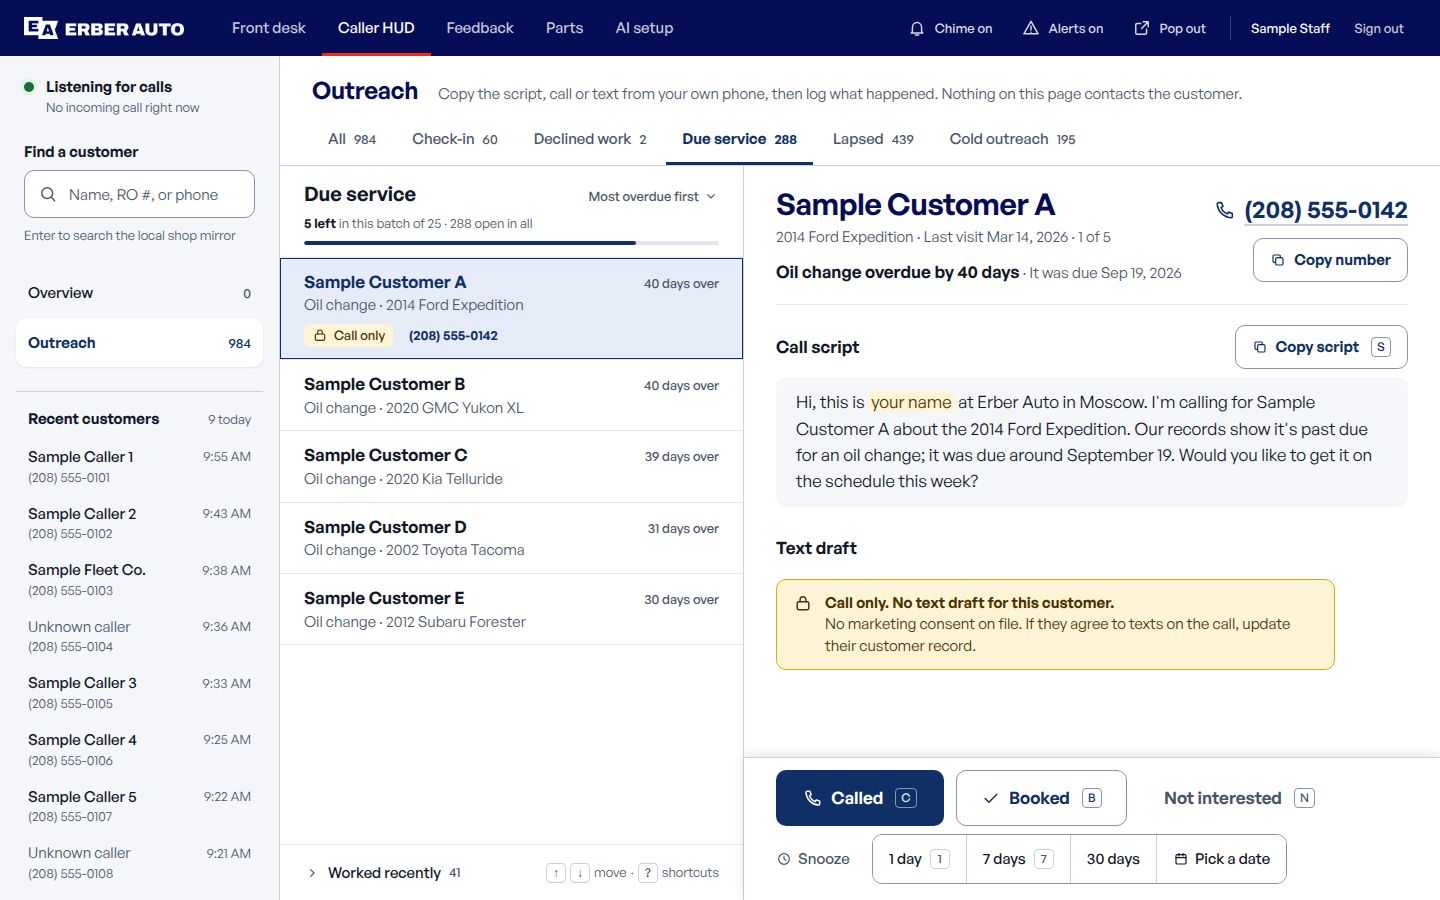
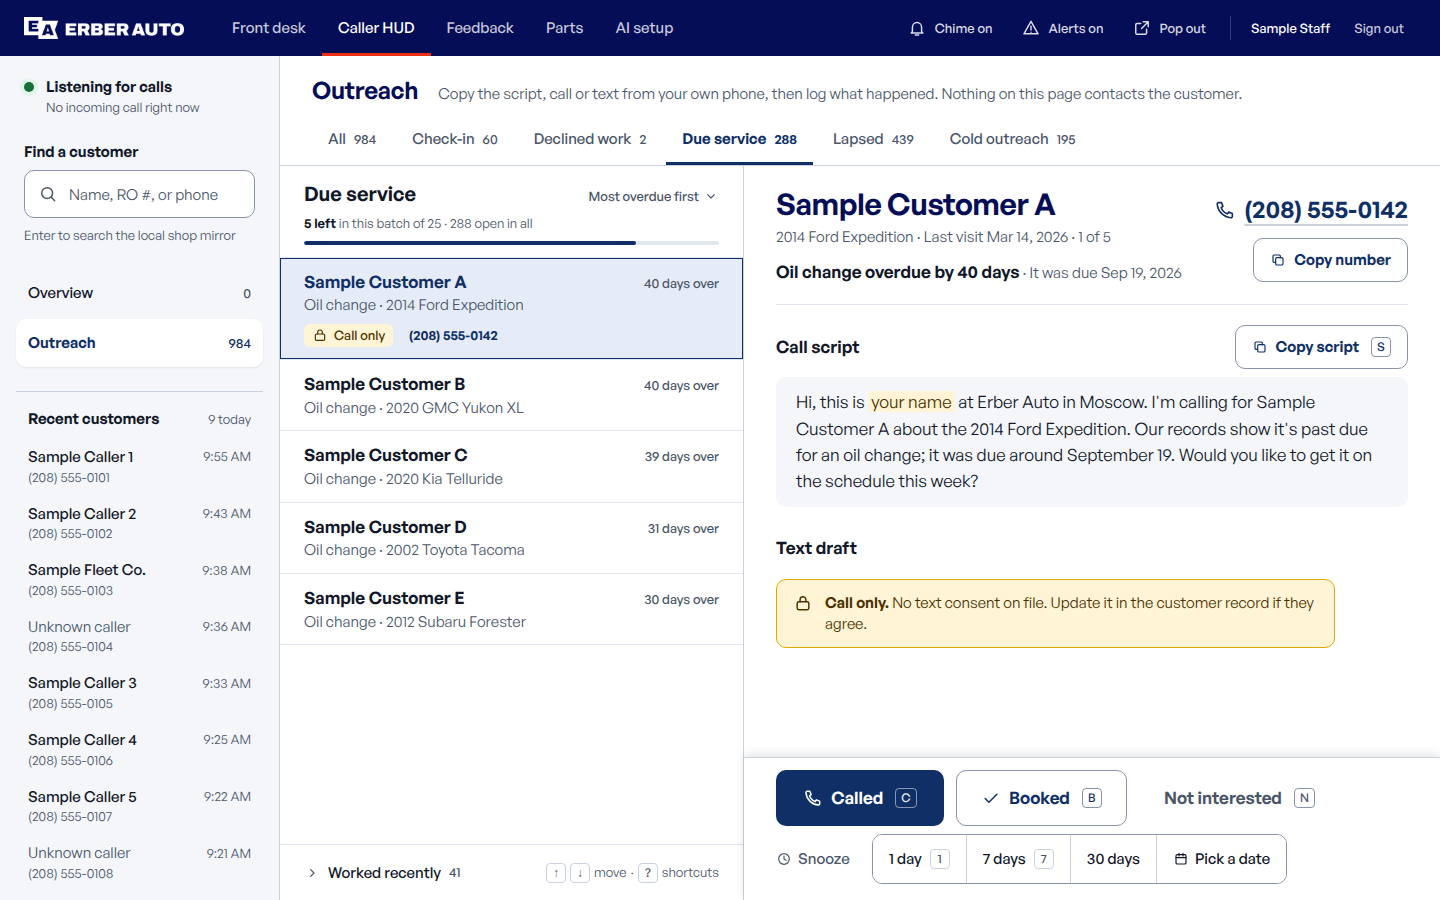
Apply owner decisions: dismiss on every outcome, read-only consent notice copy

Changed region(s): [[0.5312, 0.6533, 0.9375, 0.7467]]

diff --git a/outreach-review/mockup.html b/outreach-review/mockup.html
@@ -130,40 +130,39 @@
         </header>
 
         <ol class="rows" role="listbox" aria-label="Customers to call">
-          <li class="row" data-id="a" role="option" tabindex="0" data-outcome="Booked">
+          <li class="row" data-id="a" role="option" tabindex="0">
             <div class="row-top"><span class="row-name">Sample Customer A</span><span class="row-when">40 days over</span></div>
             <p class="row-reason">Oil change · 2014 Ford Expedition</p>
             <p class="row-flags"><span class="flag"><svg class="ico ico-sm"><use href="#i-lock"/></svg>Call only</span><span class="row-phone">(208) 555-0142</span></p>
-            <p class="row-logged"></p>
           </li>
-          <li class="row" data-id="b" role="option" tabindex="-1" data-outcome="Called">
+          <li class="row" data-id="b" role="option" tabindex="-1">
             <div class="row-top"><span class="row-name">Sample Customer B</span><span class="row-when">40 days over</span></div>
             <p class="row-reason">Oil change · 2020 GMC Yukon XL</p>
             <p class="row-flags"><span class="flag flag-ok"><svg class="ico ico-sm"><use href="#i-message"/></svg>Text OK</span><span class="row-phone">(208) 555-0177</span></p>
-            <p class="row-logged"></p>
           </li>
-          <li class="row" data-id="c" role="option" tabindex="-1" data-outcome="Snoozed 7 days">
+          <li class="row" data-id="c" role="option" tabindex="-1">
             <div class="row-top"><span class="row-name">Sample Customer C</span><span class="row-when">39 days over</span></div>
             <p class="row-reason">Oil change · 2020 Kia Telluride</p>
             <p class="row-flags"><span class="flag flag-ok"><svg class="ico ico-sm"><use href="#i-message"/></svg>Text OK</span><span class="row-phone">(208) 555-0119</span></p>
-            <p class="row-logged"></p>
           </li>
-          <li class="row" data-id="d" role="option" tabindex="-1" data-outcome="Not interested">
+          <li class="row" data-id="d" role="option" tabindex="-1">
             <div class="row-top"><span class="row-name">Sample Customer D</span><span class="row-when">31 days over</span></div>
             <p class="row-reason">Oil change · 2002 Toyota Tacoma</p>
             <p class="row-flags"><span class="flag"><svg class="ico ico-sm"><use href="#i-lock"/></svg>Call only</span><span class="row-phone">(208) 555-0163</span></p>
-            <p class="row-logged"></p>
           </li>
-          <li class="row" data-id="e" role="option" tabindex="-1" data-outcome="Called">
+          <li class="row" data-id="e" role="option" tabindex="-1">
             <div class="row-top"><span class="row-name">Sample Customer E</span><span class="row-when">30 days over</span></div>
             <p class="row-reason">Oil change · 2012 Subaru Forester</p>
             <p class="row-flags"><span class="flag flag-ok"><svg class="ico ico-sm"><use href="#i-message"/></svg>Text OK</span><span class="row-phone">(208) 555-0128</span></p>
-            <p class="row-logged"></p>
           </li>
         </ol>
+        <div class="list-clear" data-only="done">
+          <p class="list-clear-title">No one left in this batch</p>
+          <p>Worked customers are under Worked recently.</p>
+        </div>
 
         <footer class="list-foot">
-          <button class="disclose"><svg class="ico ico-sm"><use href="#i-chevron"/></svg>Worked recently <span>41</span></button>
+          <button class="disclose"><svg class="ico ico-sm"><use href="#i-chevron"/></svg>Worked recently <span data-only="withheld empty">41</span><span data-only="text">42</span><span data-only="done">66</span></button>
           <p class="keys"><kbd>↑</kbd><kbd>↓</kbd> move <span aria-hidden="true">·</span> <kbd>?</kbd> shortcuts</p>
         </footer>
       </section>
@@ -196,8 +195,7 @@
             <div class="consent" role="note">
               <svg class="ico"><use href="#i-lock"/></svg>
               <div>
-                <p class="consent-title">Call only. No text draft for this customer.</p>
-                <p>No marketing consent on file. If they agree to texts on the call, update their customer record.</p>
+                <p><strong class="consent-title">Call only.</strong> No text consent on file. Update it in the customer record if they agree.</p>
               </div>
             </div>
           </section>
@@ -250,7 +248,7 @@
               <button class="btn btn-secondary btn-sm"><svg class="ico ico-sm"><use href="#i-copy"/></svg>Copy text <kbd>T</kbd></button>
             </div>
             <p class="script">Hi from Erber Auto in Moscow. Your 2020 GMC Yukon XL is due for an oil change (it was due Sep 19). Call us at (208) 555-0100 or reply to book a time. Reply STOP to opt out.</p>
-            <p class="d-note"><svg class="ico ico-sm"><use href="#i-message"/></svg>Marketing consent on file since Jun 2024.</p>
+            <p class="d-note"><svg class="ico ico-sm"><use href="#i-message"/></svg>Text consent on file since Jun 2024.</p>
           </section>
         </div>
 
@@ -310,11 +308,12 @@
   document.querySelectorAll('[role=tab]').forEach(t => t.setAttribute('aria-selected', t.dataset.tab === tab));
   const selected = { withheld: 'a', text: 'b' }[state];
   document.querySelectorAll('.row').forEach(r => {
-    const logged = state === 'done' || (state === 'text' && r.dataset.id === 'a');
+    const dismissed = state === 'done' || (state === 'text' && r.dataset.id === 'a');
+    r.hidden = dismissed;
     r.setAttribute('aria-selected', r.dataset.id === selected);
-    r.classList.toggle('is-logged', logged);
-    if (logged) r.querySelector('.row-logged').textContent = r.dataset.outcome + (state === 'text' ? ' · just now' : '');
   });
+  const first = document.querySelector('.row:not([hidden])');
+  if (first) document.querySelectorAll('.row').forEach(r => r.tabIndex = r === first ? 0 : -1);
 </script>
 </body>
 </html>

diff --git a/outreach-review/mockup.css b/outreach-review/mockup.css
@@ -193,6 +193,7 @@ h1 { font-size: var(--text-xl); font-weight: var(--weight-semibold); line-height
 [data-state=done] .meter span { width: 100%; background: var(--color-success); }
 
 .rows { flex: 1; overflow: auto; }
+[data-state=done] .rows { display: none; }
 .row {
   position: relative;
   padding: var(--space-3) var(--space-6);
@@ -213,20 +214,8 @@ h1 { font-size: var(--text-xl); font-weight: var(--weight-semibold); line-height
 .row-phone { color: var(--color-navy); font-weight: var(--weight-semibold); }
 .flag { display: inline-flex; align-items: center; gap: 6px; color: var(--color-warning-text); background: var(--color-warning-bg); padding: 2px var(--space-2); border-radius: var(--radius-sm); font-weight: var(--weight-medium); }
 .flag-ok { color: var(--color-success); background: var(--color-success-bg); }
-.row-logged { display: none; }
-.row.is-logged .row-name, .row.is-logged .row-reason { color: var(--color-disabled-text); }
-.row.is-logged .row-name { font-weight: var(--weight-medium); }
-.row.is-logged .row-when { display: none; }
-.row.is-logged .row-logged {
-  display: inline-flex; align-items: center;
-  position: absolute; right: var(--space-6); top: var(--space-3);
-  font-size: var(--text-xs); font-weight: var(--weight-semibold);
-  color: var(--color-success); background: var(--color-success-bg);
-  padding: 2px var(--space-2); border-radius: var(--radius-sm);
-}
-.row.is-logged[data-outcome="Not interested"] .row-logged { color: var(--color-text-muted); background: var(--color-disabled-bg); }
-.row.is-logged[data-outcome^="Snoozed"] .row-logged,
-.row.is-logged[data-outcome="Called"] .row-logged { color: var(--color-navy); background: var(--color-info-bg); }
+.list-clear { flex: 1; padding: var(--space-8) var(--space-6); color: var(--color-text-muted); }
+.list-clear-title { font-size: var(--text-base); font-weight: var(--weight-semibold); color: var(--color-text); }
 
 .list-foot {
   display: flex; justify-content: space-between; align-items: center;

diff --git a/outreach-review/spec.md b/outreach-review/spec.md
@@ -4,10 +4,10 @@ Reference: `mockup.html` + `mockup.css` (open in Chrome at 1440×900). States: `
 
 | Screenshot | Shows |
 |---|---|
-| `mockup-1440.png` | Default: Due service tab, first customer selected, call only (no marketing consent) |
-| `state-text-allowed-undo.png` | Previous customer just logged as Booked (toast with Undo), next customer selected, text draft allowed |
+| `mockup-1440.png` | Default: Due service tab, first customer selected, call only (no text consent) |
+| `state-text-allowed-undo.png` | Previous customer just logged as Booked and dismissed from the list (toast with Undo), next customer selected, text draft allowed |
 | `state-empty.png` | Empty tab (Declined work, 0) |
-| `state-done.png` | Batch finished, with tally and next-batch action |
+| `state-done.png` | Batch finished: list is clear, detail pane shows the tally and next-batch action |
 
 ## 1. Layout (1440×900 desktop)
 
@@ -54,10 +54,8 @@ Reference: `mockup.html` + `mockup.css` (open in Chrome at 1440×900). States: `
 | Small red text (real urgency only) | `--color-red-text` #B3200C | Reserved for things like a missed incoming call. Not used for "overdue", because every row in a due list is overdue, so red would carry no information |
 | Selected row | `--color-info-bg` + inset 1px navy ring | No coloured left border |
 | Call-only chip, consent notice | `--color-warning-bg` / `--color-warning-border` / `--color-warning-text` #4A3200 | ~11:1 contrast |
-| Text OK chip, done, Booked tag | `--color-success` on `--color-success-bg` | |
-| Called / Snoozed tags | navy on `--color-info-bg` | |
-| Not interested tag | muted on `--color-disabled-bg` | |
-| Logged row text | `--color-disabled-text` #5F6B7E | 5.3:1 on white |
+| Text OK chip, done check | `--color-success` on `--color-success-bg` | |
+| Undo toast | `--color-text` fill, white text, success-tinted check icon | |
 | Focus | 3px `--color-focus` outline (inset 3px ring on rows) | Every control |
 
 Counts (tabs, rail nav) are always muted text, never a coloured badge.
@@ -92,23 +90,24 @@ The radius is `--radius-md` on every button.
 - **Snooze group:** one outlined segmented control with options 1 day (1), 7 days (7), 30 days, and Pick a date. "Pick a date" opens a calendar popover (escape the pane with `position: fixed` or a popover) defaulting to today + 14. The old separate "Snooze until date" button is removed.
 - **Keyboard hints:** a `kbd` chip (20px, 12px text, 1px border) inside the button it triggers. Shortcuts: C Called, B Booked, N Not interested, 1 / 7 snooze, S copy script, T copy text, U undo, ↑↓ move, Enter start next batch, ? opens the shortcut sheet. The list footer shows only "↑ ↓ move · ? shortcuts".
 - **Tabs:** underline style, 48px tall, label plus a muted count. Active: navy text, semibold, 3px navy bottom bar. Hover: `--color-border` bottom bar.
-- **Consent notice (no marketing consent):**
+- **Consent notice (no text consent):**
   - Placement: under the "Text draft" heading, where the draft would be.
-  - Contents: a lock icon, the bold line "Call only. No text draft for this customer.", then "No marketing consent on file. If they agree to texts on the call, update their customer record."
+  - Contents: a lock icon and the owner-approved copy, verbatim: "**Call only.** No text consent on file. Update it in the customer record if they agree." ("Call only." is semibold; the rest is regular.)
   - The list row shows the small "Call only" chip with a lock icon.
-  - Confirm the recovery wording with the owner. If consent can be changed right here, add a secondary "Record consent" button instead.
-- **Consent present:** the draft appears in the well with Copy text (T), and a small success-coloured line underneath: "Marketing consent on file since <Mon YYYY>".
+  - Staff cannot change consent on Outreach. There is no consent control, toggle, or link-styled button on this page, and the notice is read-only (`role="note"`).
+- **Consent present:** the draft appears in the well with Copy text (T), and a small success-coloured line underneath: "Text consent on file since <Mon YYYY>". Read-only, no control.
 - **Icons:** a single stroke set, 1.75px stroke, 20px (16px small), `currentColor`. The mockup uses inline SVG. In the app, use the project's icon library at the same stroke weight. No emoji or unicode arrows as icons (keycaps inside `kbd` are fine).
 
 ## 6. Behaviour
 
 1. **Selection:** the first unworked row is selected on load. ↑↓ or a click moves the selection, and the detail pane follows. The list is a `listbox` with roving `tabindex`.
 2. **Logging an outcome:**
-   - The row stays in place but greys out and shows its outcome tag ("Booked · just now"). Selection moves to the next unworked row.
+   - Every outcome dismisses the customer: Called, Booked, Not interested, and any Snooze (1 day, 7 days, 30 days, or a picked date). The row leaves the list immediately (no greyed-out row, no outcome tag, no exit animation beyond the 120ms `--duration-fast` collapse) and the next customer is selected. If it was the last row, selection moves to the previous one; if none remain, show the batch-done state.
+   - The dismissed customer moves to the "Worked recently" count in the list footer.
    - The batch line updates ("4 left in this batch of 25"), and the meter fills.
    - A toast shows above the list footer: "**Sample Customer A** logged as Booked · Undo (U)". It has `role="status"`, stays 8s, pauses on hover, and one toast replaces the previous one.
-3. **Undo** restores the previous outcome and selection.
-4. **Batch done:** when all 25 are worked, the detail pane shows the done state: a check, "Batch done", "You worked all 25 due-service customers in this batch. 263 are still open.", a tally (Booked / Called / Snoozed / Not interested), and buttons for Start next 25 (primary, Enter) and Review this batch. The list keeps the worked rows with their tags.
+3. **Undo** (button or U, available for the 8s the toast is up) clears the logged outcome, puts the customer back in their original list position, and selects them again. After the toast expires, undo is no longer offered on this page.
+4. **Batch done:** when all 25 are worked, the detail pane shows the done state: a check, "Batch done", "You worked all 25 due-service customers in this batch. 263 are still open.", a tally (Booked / Called / Snoozed / Not interested), and buttons for Start next 25 (primary, Enter) and Review this batch. The list pane is empty apart from "No one left in this batch / Worked customers are under Worked recently."
 5. **Incoming call (not mocked):** a ringing call overrides everything. The rail's live block turns into the call card, the page doesn't lose the outreach selection, and staff return to the same customer afterwards. This is where red text belongs.
 
 ## 7. States checklist
@@ -118,7 +117,7 @@ The radius is `--radius-md` on every button.
 | Loading list | 5 skeleton rows (two grey bars each, `--hairline`), batch line skeleton, detail pane skeleton header. No spinner |
 | Empty tab | Spans list + detail. Inbox icon (40px, `--color-border-strong` stroke), heading "No <list> to follow up", one sentence on what lands here, primary button to the busiest non-empty list ("Work Due service 288"), ghost "Show all lists" |
 | Error / mirror offline | Inline banner at the top of the list pane, warning tokens: "Can't reach the shop mirror. Showing the list from <time>." with Retry. Outcome buttons stay enabled and queue locally if supported, otherwise disabled with that reason in a tooltip |
-| Row: default / hover / focus / selected / logged | bg white / `--color-bg` / 3px inset focus ring / `--color-info-bg` + 1px navy ring / greyed text + outcome tag |
+| Row: default / hover / focus / selected | bg white / `--color-bg` / 3px inset focus ring / `--color-info-bg` + 1px navy ring. There is no logged row state: a logged row is removed |
 | No phone on file | Phone slot reads "No phone on file" (muted), and Called and Booked are disabled. Not interested and Snooze stay enabled |
 | Long names | Row name truncates with ellipsis at one line. The detail name wraps (max 2 lines) |
 
@@ -129,7 +128,7 @@ The radius is `--radius-md` on every button.
 | "Copy a script or draft, then call or text yourself. Nothing on this page is sent to a customer." | "Copy the script, call or text from your own phone, then log what happened. Nothing on this page contacts the customer." |
 | "5 Due service in this batch of 25. 288 open in the full list." | "5 left in this batch of 25 · 288 open in all" |
 | "An oil change due 2026-09-19. · 2014 Ford Expedition" | Row: "Oil change · 2014 Ford Expedition" + "40 days over". Detail: "Oil change overdue by 40 days · It was due Sep 19, 2026." |
-| "Text draft withheld: no marketing consent" | "Call only. No text draft for this customer." + reason/recovery line |
+| "Text draft withheld: no marketing consent" | "Call only. No text consent on file. Update it in the customer record if they agree." |
 | "Snooze until date" + date input | "Pick a date" inside the Snooze group |
 | "Arrow keys move. C called, …" | kbd chips on buttons + "↑ ↓ move · ? shortcuts" |
 | "▸ LAST 30 DAYS" | "Worked recently 41" |
@@ -143,13 +142,14 @@ Outcome labels (Called, Booked, Not interested) are unchanged.
 
 - Every text/background pair is ≥4.5:1. The `impeccable detect` run on the mockup reports no contrast failures.
 - Targets: 48px minimum (`--tap-min`), 56px for outcome buttons, 44px for compact secondaries (copy buttons, toast Undo, top-bar tools).
-- Status is never shown by colour alone: consent uses an icon and words, outcomes use tag text.
+- Status is never shown by colour alone: consent uses an icon and words, and every outcome is announced in the toast text.
 - The toast and batch line are `role="status"` live regions. The outcome bar is labelled "Log the outcome". Snooze is a labelled `role="group"`.
 - `prefers-reduced-motion` drops transitions to 0 (already in tokens). Motion stays limited to 120–200ms colour fades.
 
-## 10. Open decisions for the owner
+## 10. Owner decisions (Oct 29, 2026)
 
-1. Primary outcome: Called (mockup) or Booked?
-2. Auto-advance after logging (mockup: yes, with Undo).
-3. Can staff record consent from this page?
-4. Batch size stays 25?
+1. **Primary outcome:** Called stays the primary button. Booked is secondary, Not interested is tertiary.
+2. **Dismissal:** Called, Booked, Not interested, and any Snooze each dismiss the customer immediately and select the next one. Undo (U, 8s toast) brings them back.
+3. **Consent:** staff cannot change consent on Outreach. No consent control on this page. Notice copy is fixed: "Call only. No text consent on file. Update it in the customer record if they agree."
+
+Still open: whether the batch size stays at 25.

diff --git a/outreach-review/critique.md b/outreach-review/critique.md
@@ -56,7 +56,7 @@ There is no P0: staff can finish the task today. They're slow, and mistakes are 
 
 - **What:** "Text draft withheld: no marketing consent" is bold, about 20px, and orange, larger and louder than the customer's name. Orange text on white at this weight is very likely under 4.5:1. Sample the rendered colour; anything lighter than the token `--color-warning` `#8A5A00` fails.
 - **Why it matters:** it reads like an error that blocks the row, when the actual instruction is simple: call, don't text. It also teaches staff to ignore orange, so a real warning later gets missed.
-- **Fix:** in the list, show a small neutral "Call only" chip with a lock icon. In the detail panel, put the notice where the text draft would be, using `--color-warning-bg`, `--color-warning-border`, and `--color-warning-text` (`#4A3200`, about 11:1). Lead with the instruction ("Call only. No text draft for this customer."), then the reason and the recovery ("No marketing consent on file. If they agree to texts on the call, update their customer record.").
+- **Fix:** in the list, show a small neutral "Call only" chip with a lock icon. In the detail panel, put the notice where the text draft would be, using `--color-warning-bg`, `--color-warning-border`, and `--color-warning-text` (`#4A3200`, about 11:1). Lead with the instruction, then the reason and where to fix it. Owner-approved copy: "Call only. No text consent on file. Update it in the customer record if they agree." There is no consent control on Outreach.
 
 ### 3. [P1] Half the screen is empty while the essentials are collapsed
 
@@ -125,7 +125,7 @@ There is no P0: staff can finish the task today. They're slow, and mistakes are 
 | No eyebrow labels | Fails: four uppercase kickers | None. Real labels and headings only |
 | Text contrast ≥4.5:1 | Orange warning and 11px greys at risk | All text pairs from tokens, ≥4.5:1 (detector clean) |
 | Targets 44–48px | Fails: about 30px pills and input | 48px floor, 56px for outcome buttons, 44px for small secondaries |
-| Real states | Only the default is visible | Default, call-only, text allowed, logged + undo, empty, batch done. Loading and error are specified in `spec.md` |
+| Real states | Only the default is visible | Default, call-only, text allowed, dismissed + undo, empty, batch done. Loading and error are specified in `spec.md` |
 
 ## Detector results (run on the proposed mockup)
 
@@ -134,8 +134,8 @@ There is no P0: staff can finish the task today. They're slow, and mistakes are 
 - **"Tight line height 1.28x":** single-line headings using `--leading-tight` (1.2). They never wrap at 1440px.
 - **"Cramped padding on `.seg`":** the segmented snooze control's buttons are meant to fill their outline edge to edge. Each button has its own 16px horizontal padding and a 48px height.
 
-## Questions to consider
+## Owner decisions (Oct 29, 2026)
 
-- Should Called really be primary, or does the shop want Booked to be the loudest outcome even though it's rarer? (The mockup chooses Called on the assumption that it's the most frequent outcome, and relies on Undo for mistakes.)
-- Should logging an outcome auto-advance to the next customer? The mockup assumes yes, with undo.
-- Can consent be updated from this page, or only in the customer record? The consent notice copy depends on the answer.
+- Called stays the primary button.
+- Every outcome (Called, Booked, Not interested, any Snooze) dismisses the customer from the list right away and selects the next one. Undo (U, 8s) brings them back.
+- Staff can't change consent on Outreach. The notice is read-only with the copy above.
